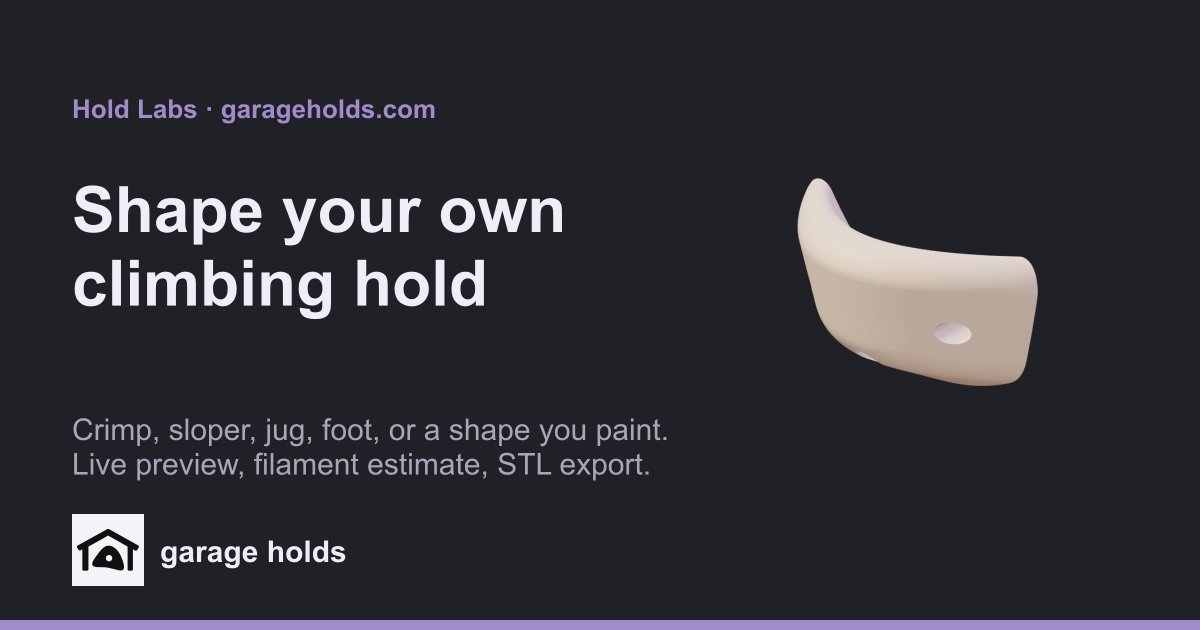
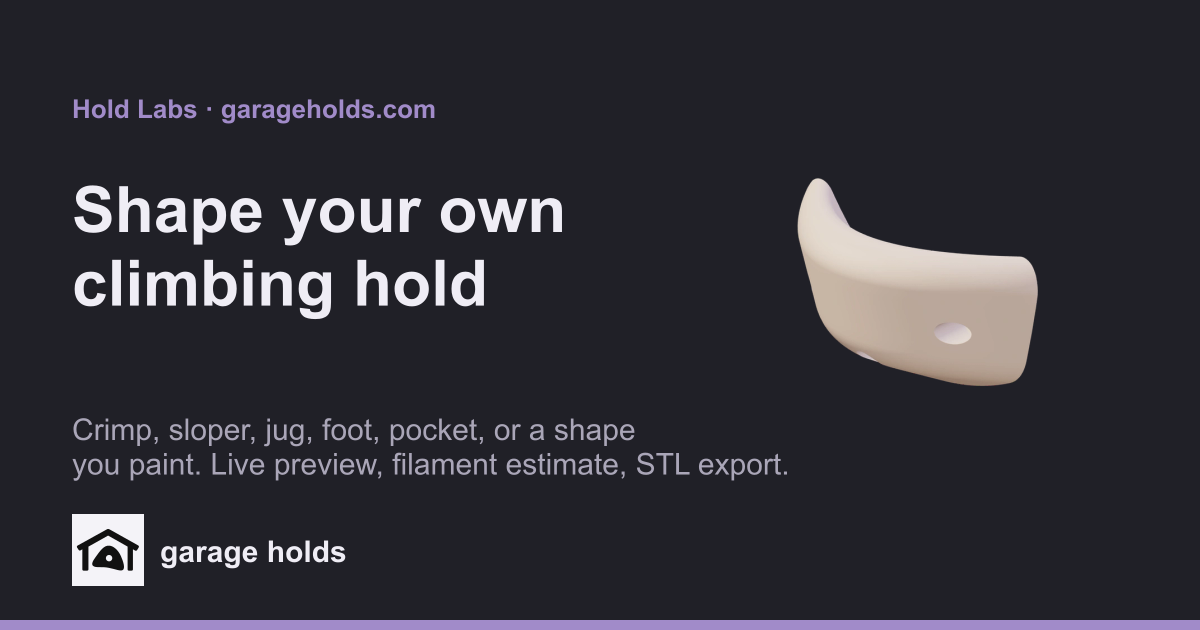
Pocket Lab: card render, docs and the end-to-end fixture (RIL-61)
Stage two after Riley's sign-off. The hub card and Open Graph image are
a smooth-shaded render of the default pocket in the viewer's print
colour with a soft shadow, in the style of the other cards. README and
docs/sandbox.md count five generators and list the Pocket API on port
8795 and its unit tests. The end-to-end fixture gains the pocket's
default output, and the four existing entries are unchanged in value.

Changed region(s): [[0.0617, 0.6635, 0.6475, 0.754]]

diff --git a/tests/e2e/lab-defaults.test.ts b/tests/e2e/lab-defaults.test.ts
@@ -22,7 +22,7 @@ import { linkSearch } from "../../src/features/lab-link/lab-link";
 // Needs the four generators from docs/sandbox.md (npm run test:e2e). After an
 // intended generator change, UPDATE_LAB_DEFAULTS=1 rewrites the fixture.
 
-const KINDS: Kind[] = ["crimp", "sloper", "jug", "foot"];
+const KINDS: Kind[] = ["crimp", "sloper", "jug", "foot", "pocket"];
 const PORTS: Record<Kind, number> = {
   crimp: 8766,
   sloper: 8771,

diff --git a/README.md b/README.md
@@ -11,7 +11,7 @@ npm ci
 npm run dev
 ```
 
-Open http://127.0.0.1:3000. Browsing, the guide and the lab pages need no credentials; the labs' generators run from their Python servers (`scripts/start-sandbox.ps1` starts the four of them with the app, see [docs/sandbox.md](docs/sandbox.md)). Accounts, uploads, reviews and saved holds need Supabase and R2: copy `.env.example` to `.env.local` and fill in the values it describes, or run the local stack in [docs/local-stack.md](docs/local-stack.md); [docs/hosted-setup.md](docs/hosted-setup.md) lists every dashboard setting involved.
+Open http://127.0.0.1:3000. Browsing, the guide and the lab pages need no credentials; the labs' generators run from their Python servers (`scripts/start-sandbox.ps1` starts the five of them with the app, see [docs/sandbox.md](docs/sandbox.md)). Accounts, uploads, reviews and saved holds need Supabase and R2: copy `.env.example` to `.env.local` and fill in the values it describes, or run the local stack in [docs/local-stack.md](docs/local-stack.md); [docs/hosted-setup.md](docs/hosted-setup.md) lists every dashboard setting involved.
 
 ```sh
 npm run format:check
@@ -23,7 +23,7 @@ npm run build
 
 GitHub Actions runs the same five commands on every pull request and on pushes to `main` (`.github/workflows/ci.yml`), plus the crimp generator's Python tests and the two-user ownership tests in `tests/integration` against a local Supabase stack in Docker; [docs/local-stack.md](docs/local-stack.md) walks through running that stack and `npm run test:integration` on a laptop. `.nvmrc` pins the Node major version CI uses. Lint uses `eslint-config-next` with the TypeScript rules and treats warnings as failures.
 
-With the four lab generators running (see [docs/sandbox.md](docs/sandbox.md)), `npm run test:e2e` checks each parametric lab's default output end to end: the first preview, the settings the sliders hold, the link and the exported STL, against `tests/fixtures/lab-defaults.json`.
+With the five lab generators running (see [docs/sandbox.md](docs/sandbox.md)), `npm run test:e2e` checks each parametric lab's default output end to end: the first preview, the settings the sliders hold, the link and the exported STL, against `tests/fixtures/lab-defaults.json`.
 
 ## What works
 
@@ -47,7 +47,7 @@ With the four lab generators running (see [docs/sandbox.md](docs/sandbox.md)), `
 
 [Crimp Lab](tools/crimp-generator/README.md) is a parametric crimp generator: edge depth, incut, lip rounding, body shape, seeded variation, and screw holes, with a live 3D preview, a centre profile, and STL plus editable JSON export. The geometry is Python (`tools/crimp-generator`); on the site it runs as a Vercel Python function (`api/crimp.py`) behind `/make/crimp`, and locally the same engine has its own browser GUI (`server.py`) or serves the hosted route for `next dev` (`serve_api.py`). Generated holds reach the library only when someone uploads them.
 
-The [Sloper](tools/sloper-generator/README.md), [Jug](tools/jug-generator/README.md) and [Foot](tools/foot-generator/README.md) Labs (`/make/sloper`, `/make/jug`, `/make/foot`) share the crimp engine underneath, and all four parametric labs share one React shell (`src/features/hold-lab`); the Foot Lab is labelled experimental. The [Custom Shape Lab](tools/custom-shape-generator/README.md) (`/make/custom-shape`) turns a painted silhouette into a hold. Every lab keeps the settings on screen in the address bar (`/make/crimp?edge_depth=22&incut=35`, or `?preset=rock+tooth`) and has a Copy link button, so a shape can be sent to a friend or linked from a Printables listing; the Custom Shape Lab packs its drawing into the link too (`src/features/lab-link`).
+The [Sloper](tools/sloper-generator/README.md), [Jug](tools/jug-generator/README.md) [Foot](tools/foot-generator/README.md) and [Pocket](tools/pocket-generator/README.md) Labs (`/make/sloper`, `/make/jug`, `/make/foot`, `/make/pocket`) share the crimp engine underneath, and all five parametric labs share one React shell (`src/features/hold-lab`); the Foot and Pocket Labs are labelled experimental. The [Custom Shape Lab](tools/custom-shape-generator/README.md) (`/make/custom-shape`) turns a painted silhouette into a hold. Every lab keeps the settings on screen in the address bar (`/make/crimp?edge_depth=22&incut=35`, or `?preset=rock+tooth`) and has a Copy link button, so a shape can be sent to a friend or linked from a Printables listing; the Custom Shape Lab packs its drawing into the link too (`src/features/lab-link`).
 
 ## Shared library
 
@@ -69,8 +69,8 @@ Supported model uploads: STL, 3MF, STEP/STP, OBJ, PLY, glTF/GLB, IGES/IGS, F3D, 
 - `src/components`: shared UI and library state.
 - `src/lib/r2.ts`: signed URLs and object checks against Cloudflare R2; credentials never leave the server.
 - `src/lib/supabase`: request-bound Supabase clients for Server Components, Server Functions, and the proxy, plus the server-only admin client used to record verified files.
-- `src/features/hold-lab`: the one shell behind the Crimp, Sloper, Jug and Foot Labs (controls from each Python schema, the Three.js viewer, the profile drawing), with what differs between the four in `kinds.ts`; `src/features/custom-shape-lab`: the painted-silhouette lab; `src/features/lab-link`: the shareable settings links every lab reads and writes.
-- `api/crimp.py`, `api/sloper.py`, `api/jug.py`, `api/foot.py`, `api/custom_shape.py`: the hosted generators, Vercel Python functions sharing the engines under `tools/`.
+- `src/features/hold-lab`: the one shell behind the Crimp, Sloper, Jug, Foot and Pocket Labs (controls from each Python schema, the Three.js viewer, the profile drawing), with what differs between the five in `kinds.ts`; `src/features/custom-shape-lab`: the painted-silhouette lab; `src/features/lab-link`: the shareable settings links every lab reads and writes.
+- `api/crimp.py`, `api/sloper.py`, `api/jug.py`, `api/foot.py`, `api/pocket.py`, `api/custom_shape.py`: the hosted generators, Vercel Python functions sharing the engines under `tools/`.
 - `tests`: domain behavior tests; `tests/integration` runs the row-level security policies with two users on the local Supabase stack.
 - `supabase/migrations`: the schema, applied in order by the Supabase CLI. `supabase/config.toml` configures the local stack; `src/lib/supabase/database.types.ts` is generated from it with `npm run db:types`.
 

diff --git a/docs/sandbox.md b/docs/sandbox.md
@@ -1,7 +1,7 @@
 # Local Windows sandbox
 
 A checkout of this repository on a Windows machine, with the app and the
-four hold-lab generators running on loopback addresses and no production
+five hold-lab generators running on loopback addresses and no production
 credentials anywhere near it.
 
 ## Start and stop
@@ -12,7 +12,7 @@ From PowerShell in the repository:
 powershell -NoProfile -ExecutionPolicy Bypass -File scripts/start-sandbox.ps1
 ```
 
-Open http://127.0.0.1:3000. The command starts the four Python API services
+Open http://127.0.0.1:3000. The command starts the five Python API services
 and the Next.js development server. Source edits reload automatically.
 Press Ctrl+C in that terminal to stop; the script cleans up its Python processes.
 Stop the existing sandbox before starting another copy.
@@ -27,6 +27,7 @@ lines at the end of `.env.example` are these):
 | Sloper API | http://127.0.0.1:8771/api/sloper |
 | Jug API    | http://127.0.0.1:8781/api/jug    |
 | Foot API   | http://127.0.0.1:8785/api/foot   |
+| Pocket API | http://127.0.0.1:8795/api/pocket |
 
 The Custom Shape Lab's generator is a Next.js route (`/api/custom-shape`)
 that runs the Python in `tools/custom-shape-generator`; its own GUI starts
@@ -43,7 +44,7 @@ python -m venv .venv
 .\.venv\Scripts\python.exe -m pip install -r tools/crimp-generator/requirements.txt
 ```
 
-All four hold generators share the same pinned Python dependencies.
+All five hold generators share the same pinned Python dependencies.
 
 ## What you can test
 
@@ -83,7 +84,7 @@ Passed on initial setup:
 - `npm run format:check`, `npm run lint`, `npm run typecheck`.
 - `npm test`: 59 tests.
 - `npm run build`.
-- `npm run test:e2e`: each parametric lab's default output (preview, slider settings, link, STL) against `tests/fixtures/lab-defaults.json`; needs the four generators up.
+- `npm run test:e2e`: each parametric lab's default output (preview, slider settings, link, STL) against `tests/fixtures/lab-defaults.json`; needs the five generators up.
 - Python unittest discovery: crimp 29, sloper 21, jug 18 tests.
 - HTTP 200 responses for `/`, all three lab pages, `/sign-in`, `/upload`, and
   all three API schemas; all three default geometry preview POSTs succeeded.
@@ -103,4 +104,5 @@ Run the Python checks with:
 .\.venv\Scripts\python.exe -m unittest discover -s tools/sloper-generator/tests
 .\.venv\Scripts\python.exe -m unittest discover -s tools/jug-generator/tests
 .\.venv\Scripts\python.exe -m unittest discover -s tools/foot-generator/tests
+.\.venv\Scripts\python.exe -m unittest discover -s tools/pocket-generator/tests
 ```
